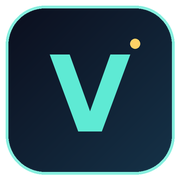
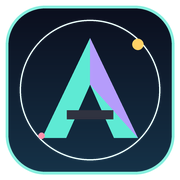
Add games search, filters and link preview assets

diff --git a/src/alif/scene-app.js b/src/alif/scene-app.js
@@ -1151,6 +1151,30 @@ window.gsap = gsap;
       const host = document.getElementById('proj-canvas');
       const bubbleEl = document.getElementById('proj-view-bubble');
 
+      const filterBar = document.createElement('div');
+      filterBar.className = 'proj-filter-bar';
+      filterBar.innerHTML = `
+        <div class="proj-filter-top">
+          <label class="proj-search">
+            <span aria-hidden="true">⌕</span>
+            <input id="proj-search-input" type="search" placeholder="Öyin qidirish..." autocomplete="off" aria-label="Öyin qidirish" />
+          </label>
+          <span class="proj-filter-count">${ITEMS.length} / ${ITEMS.length} öyin</span>
+        </div>
+        <div class="proj-filter-row" id="proj-filter-categories" aria-label="Kategoriya filtri"></div>
+        <div class="proj-filter-row" id="proj-filter-years" aria-label="Yosh filtri"></div>
+      `;
+      section.appendChild(filterBar);
+      const searchInput = filterBar.querySelector('#proj-search-input');
+      const countEl = filterBar.querySelector('.proj-filter-count');
+      const categoryRow = filterBar.querySelector('#proj-filter-categories');
+      const yearRow = filterBar.querySelector('#proj-filter-years');
+      const categories = ['all', ...new Set(ITEMS.map((it) => it.category))];
+      const years = ['all', ...new Set(ITEMS.map((it) => it.year))];
+      let activeCategory = 'all';
+      let activeYear = 'all';
+      let searchQuery = '';
+
       const projItems = ITEMS;
       const touch = isTouchDevice();
 
@@ -1725,8 +1749,9 @@ window.gsap = gsap;
         const blockHeight = tileH + 10 + 16 + 4 + 16; // tile + 10px + title + 4px + cat
 
         let maxBottom = gridTop;
-        for (let i = 0; i < tiles.length; i++) {
-          const t = tiles[i];
+        const shownTiles = tiles.filter((t) => !t.filtered);
+        for (let i = 0; i < shownTiles.length; i++) {
+          const t = shownTiles[i];
           const col = i % cols;
           const row = Math.floor(i / cols);
           const xLeft = pad + col * (tileW + colGap);
@@ -1807,6 +1832,85 @@ window.gsap = gsap;
       });
 
       let entrancePlayed = false;
+
+      function makeChipRow(row, values, getActive, setActive, labelFor) {
+        row.innerHTML = values.map((value) => {
+          const active = value === getActive();
+          return `<button type="button" class="proj-filter-chip${active ? ' is-active' : ''}" data-value="${value}" aria-pressed="${active}">${labelFor(value)}</button>`;
+        }).join('');
+        row.querySelectorAll('.proj-filter-chip').forEach((btn) => {
+          btn.addEventListener('click', () => {
+            setActive(btn.dataset.value);
+            row.querySelectorAll('.proj-filter-chip').forEach((b) => {
+              const on = b === btn;
+              b.classList.toggle('is-active', on);
+              b.setAttribute('aria-pressed', String(on));
+            });
+            applyFilters();
+          });
+        });
+      }
+
+      function normalizeFilter(value) {
+        return String(value || '')
+          .toLocaleLowerCase('uz')
+          .replace(/[ʻ‘’`ʼ]/g, "'");
+      }
+
+      function itemMatchesFilter(t) {
+        if (activeCategory !== 'all' && t.item.category !== activeCategory) return false;
+        if (activeYear !== 'all' && t.item.year !== activeYear) return false;
+        if (!searchQuery) return true;
+        const haystack = normalizeFilter([
+          t.item.title,
+          t.item.subGlyph,
+          t.item.category,
+          t.item.year,
+          t.item.desc,
+          t.item.glyph
+        ].join(' '));
+        return haystack.includes(searchQuery);
+      }
+
+      function applyFilters() {
+        const shown = [];
+        for (const t of tiles) {
+          t.filtered = !itemMatchesFilter(t);
+          const on = !t.filtered;
+          t.tileMesh.visible = on;
+          t.chipMesh.visible = on;
+          t.titleMesh.visible = on;
+          t.catMesh.visible = on;
+          if (on) {
+            shown.push(t);
+            if (entrancePlayed || reducedMotion) {
+              t.opacityVal = 1;
+              t.riseOffset = 0;
+            }
+          } else {
+            gsap.killTweensOf(t, 'opacityVal,riseOffset');
+            t.opacityVal = 0;
+            t.riseOffset = 60;
+          }
+        }
+        hoveredTile = null;
+        mobileCenterTile = null;
+        setActiveVideoTile(null, false);
+        targetScroll = 0;
+        currentScroll = 0;
+        scrollVel = 0;
+        layoutGrid();
+        countEl.textContent = `${shown.length} / ${tiles.length} öyin`;
+        filterBar.classList.toggle('is-empty', shown.length === 0);
+      }
+
+      makeChipRow(categoryRow, categories, () => activeCategory, (value) => { activeCategory = value; }, (value) => value === 'all' ? 'Hammasi' : value);
+      makeChipRow(yearRow, years, () => activeYear, (value) => { activeYear = value; }, (value) => value === 'all' ? 'Barcha yosh' : value);
+      searchInput.addEventListener('input', () => {
+        searchQuery = normalizeFilter(searchInput.value.trim());
+        applyFilters();
+      });
+
       function playEntrance() {
         if (entrancePlayed) return;
         entrancePlayed = true;
@@ -1911,6 +2015,7 @@ window.gsap = gsap;
 
       function setActiveVideoTile(nextTile, isDesktopHover) {
         for (const t of tiles) {
+          if (t.filtered) continue;
           const active = t === nextTile;
           const targetMix = active ? 1 : 0;
           if (Math.abs(t.tileMat.uniforms.uMix.value - targetMix) > 0.001) {
@@ -2006,7 +2111,7 @@ window.gsap = gsap;
         ndc.x = ((e.clientX - rect.left) / rect.width) * 2 - 1;
         ndc.y = -((e.clientY - rect.top) / rect.height) * 2 + 1;
         raycaster.setFromCamera(ndc, camera);
-        const hits = raycaster.intersectObjects(tiles.map((t) => t.tileMesh), false);
+        const hits = raycaster.intersectObjects(tiles.filter((t) => !t.filtered).map((t) => t.tileMesh), false);
         if (hits.length) {
           openLightbox(hits[0].object.userData.tileState.item);
         }
@@ -2038,7 +2143,7 @@ window.gsap = gsap;
         for (let i = 0; i < tiles.length; i++) {
           const t = tiles[i];
           const yBottom = t.yTop + t.tileH;
-          if (!t.loading && yBottom >= minLoadY && t.yTop <= maxLoadY) {
+          if (!t.filtered && !t.loading && yBottom >= minLoadY && t.yTop <= maxLoadY) {
             loadTileMedia(t);
           }
 
@@ -2062,6 +2167,7 @@ window.gsap = gsap;
           t.titleMesh.position.set(t.x + tw / 2, -(t.yTop + t.tileH + 10 + th / 2 + rise), 0);
           t.catMesh.position.set(t.x + ctw / 2, -(t.yTop + t.tileH + 10 + 16 + 4 + cth / 2 + rise), 0);
 
+          if (t.filtered) continue;
           const tileCenterY = t.yTop + t.tileH / 2;
           const dist = Math.abs(tileCenterY - viewCenterY);
           if (dist < closestDist) {
@@ -2079,7 +2185,7 @@ window.gsap = gsap;
             activeTile.videoTex.needsUpdate = true;
           }
           const visibleTiles = tiles.filter(
-            (t) => t.stillReady && t.yTop + t.tileH >= currentScroll - 80 && t.yTop <= currentScroll + vh + 80
+            (t) => !t.filtered && t.stillReady && t.yTop + t.tileH >= currentScroll - 80 && t.yTop <= currentScroll + vh + 80
           );
           if (visibleTiles.length > 0) {
             if (typeof makeLoopDriver.__projAnimCursor !== 'number') makeLoopDriver.__projAnimCursor = 0;
@@ -2111,7 +2217,7 @@ window.gsap = gsap;
           ndc.x = ((pointerX - rect.left) / rect.width) * 2 - 1;
           ndc.y = -((pointerY - rect.top) / rect.height) * 2 + 1;
           raycaster.setFromCamera(ndc, camera);
-          const hits = raycaster.intersectObjects(tiles.map((t) => t.tileMesh), false);
+          const hits = raycaster.intersectObjects(tiles.filter((t) => !t.filtered).map((t) => t.tileMesh), false);
           const hitTile = hits.length ? hits[0].object.userData.tileState : null;
           if (hitTile !== hoveredTile) {
             hoveredTile = hitTile;

diff --git a/src/alif/kids.css b/src/alif/kids.css
@@ -645,3 +645,154 @@ html[data-theme='light'] .app-letter-art canvas {
     animation: none;
   }
 }
+
+.proj-filter-bar {
+  position: absolute;
+  top: 12px;
+  left: 50%;
+  z-index: 5;
+  width: min(1080px, calc(100vw - 28px));
+  transform: translateX(-50%);
+  padding: 10px 12px;
+  border-radius: 18px;
+  border: 1px solid rgba(255, 255, 255, 0.16);
+  background: rgba(12, 16, 34, 0.66);
+  box-shadow: 0 14px 38px rgba(2, 6, 23, 0.28);
+  backdrop-filter: blur(18px) saturate(1.25);
+  color: var(--ink, #f8fafc);
+  pointer-events: auto;
+}
+
+.proj-filter-top {
+  display: flex;
+  align-items: center;
+  gap: 10px;
+}
+
+.proj-search {
+  display: flex;
+  align-items: center;
+  gap: 8px;
+  flex: 1;
+  min-width: 0;
+  padding: 0 12px;
+  height: 38px;
+  border-radius: 12px;
+  border: 1px solid rgba(255, 255, 255, 0.18);
+  background: rgba(255, 255, 255, 0.08);
+}
+
+.proj-search span {
+  font-size: 18px;
+  opacity: 0.72;
+}
+
+.proj-search input {
+  flex: 1;
+  min-width: 0;
+  border: 0;
+  outline: 0;
+  background: transparent;
+  color: inherit;
+  font: 700 14px/1 'Nunito', ui-sans-serif, sans-serif;
+}
+
+.proj-search input::placeholder {
+  color: rgba(248, 250, 252, 0.55);
+}
+
+.proj-filter-count {
+  flex: 0 0 auto;
+  font: 800 12px/1 'Nunito', ui-sans-serif, sans-serif;
+  white-space: nowrap;
+  opacity: 0.82;
+}
+
+.proj-filter-row {
+  display: flex;
+  gap: 6px;
+  margin-top: 8px;
+  padding-bottom: 2px;
+  overflow-x: auto;
+  scrollbar-width: none;
+}
+
+.proj-filter-row::-webkit-scrollbar {
+  display: none;
+}
+
+.proj-filter-chip {
+  flex: 0 0 auto;
+  padding: 6px 10px;
+  border-radius: 999px;
+  border: 1px solid rgba(255, 255, 255, 0.18);
+  background: rgba(255, 255, 255, 0.07);
+  color: inherit;
+  font: 700 11px/1 'Nunito', ui-sans-serif, sans-serif;
+  cursor: pointer;
+  transition: background 0.18s var(--ease), border-color 0.18s var(--ease), transform 0.18s var(--ease);
+}
+
+.proj-filter-chip:hover {
+  transform: translateY(-1px);
+  border-color: rgba(94, 234, 212, 0.55);
+}
+
+.proj-filter-chip.is-active {
+  border-color: rgba(94, 234, 212, 0.72);
+  background: rgba(94, 234, 212, 0.2);
+  color: #b8fff4;
+}
+
+.proj-filter-bar.is-empty::after {
+  content: 'Heç bir öyin topilmadi';
+  display: block;
+  margin-top: 8px;
+  text-align: center;
+  font: 800 12px/1 'Nunito', ui-sans-serif, sans-serif;
+  color: #ffd166;
+}
+
+html[data-theme='light'] .proj-filter-bar {
+  border-color: rgba(15, 23, 42, 0.12);
+  background: rgba(255, 255, 255, 0.76);
+  box-shadow: 0 14px 38px rgba(15, 23, 42, 0.12);
+  color: #0f172a;
+}
+
+html[data-theme='light'] .proj-search {
+  border-color: rgba(15, 23, 42, 0.14);
+  background: rgba(15, 23, 42, 0.05);
+}
+
+html[data-theme='light'] .proj-search input::placeholder {
+  color: rgba(15, 23, 42, 0.48);
+}
+
+html[data-theme='light'] .proj-filter-chip {
+  border-color: rgba(15, 23, 42, 0.14);
+  background: rgba(15, 23, 42, 0.05);
+}
+
+html[data-theme='light'] .proj-filter-chip.is-active {
+  border-color: rgba(2, 132, 199, 0.5);
+  background: rgba(2, 132, 199, 0.13);
+  color: #075985;
+}
+
+@media (max-width: 720px) {
+  .proj-filter-bar {
+    top: 8px;
+    padding: 8px 10px;
+    border-radius: 14px;
+  }
+
+  .proj-filter-count {
+    display: none;
+  }
+
+  .proj-filter-chip {
+    padding: 5px 8px;
+    font-size: 10px;
+  }
+}

diff --git a/index.html b/index.html
@@ -8,11 +8,25 @@
     <meta property="og:title" content="ALIF VESNA KIDS — Öyinli alifbo" />
     <meta property="og:description" content="Yangi alifbo, 40 ta öyin, yorqin dizayn va 3D sfera — bolalar uçun VESNA." />
     <meta property="og:type" content="website" />
+    <meta property="og:url" content="https://alif-kids.onrender.com/" />
+    <meta property="og:site_name" content="ALIF VESNA KIDS" />
+    <meta property="og:image" content="https://alif-kids.onrender.com/assets/og-image.png?v=logo1" />
+    <meta property="og:image:secure_url" content="https://alif-kids.onrender.com/assets/og-image.png?v=logo1" />
+    <meta property="og:image:type" content="image/png" />
+    <meta property="og:image:width" content="1200" />
+    <meta property="og:image:height" content="630" />
+    <meta property="og:image:alt" content="ALIF VESNA KIDS — Öyinli alifbo, 29 harf va 40 ta öyin" />
     <meta name="twitter:card" content="summary_large_image" />
-    <link rel="icon" type="image/svg+xml" href="/assets/favicon.svg" />
+    <meta name="twitter:title" content="ALIF VESNA KIDS — Öyinli alifbo" />
+    <meta name="twitter:description" content="Yangi alifbo, 40 ta öyin, yorqin dizayn va 3D sfera — bolalar uçun VESNA." />
+    <meta name="twitter:image" content="https://alif-kids.onrender.com/assets/og-image.png?v=logo1" />
+    <meta name="twitter:image:alt" content="ALIF VESNA KIDS — Öyinli alifbo" />
+    <link rel="icon" type="image/svg+xml" href="/assets/logo.svg" />
+    <link rel="alternate icon" type="image/svg+xml" href="/assets/favicon.svg" />
     <link rel="alternate icon" type="image/png" sizes="32x32" href="/assets/favicon-32.png" />
     <link rel="alternate icon" type="image/png" sizes="16x16" href="/assets/favicon-16.png" />
     <link rel="apple-touch-icon" sizes="180x180" href="/assets/apple-touch-icon.png" />
+    <link rel="image_src" href="https://alif-kids.onrender.com/assets/og-image.png?v=logo1" />
     <meta name="theme-color" content="#120b2e" />
     <link rel="preconnect" href="https://fonts.googleapis.com" />
     <link rel="preconnect" href="https://fonts.gstatic.com" crossorigin />
